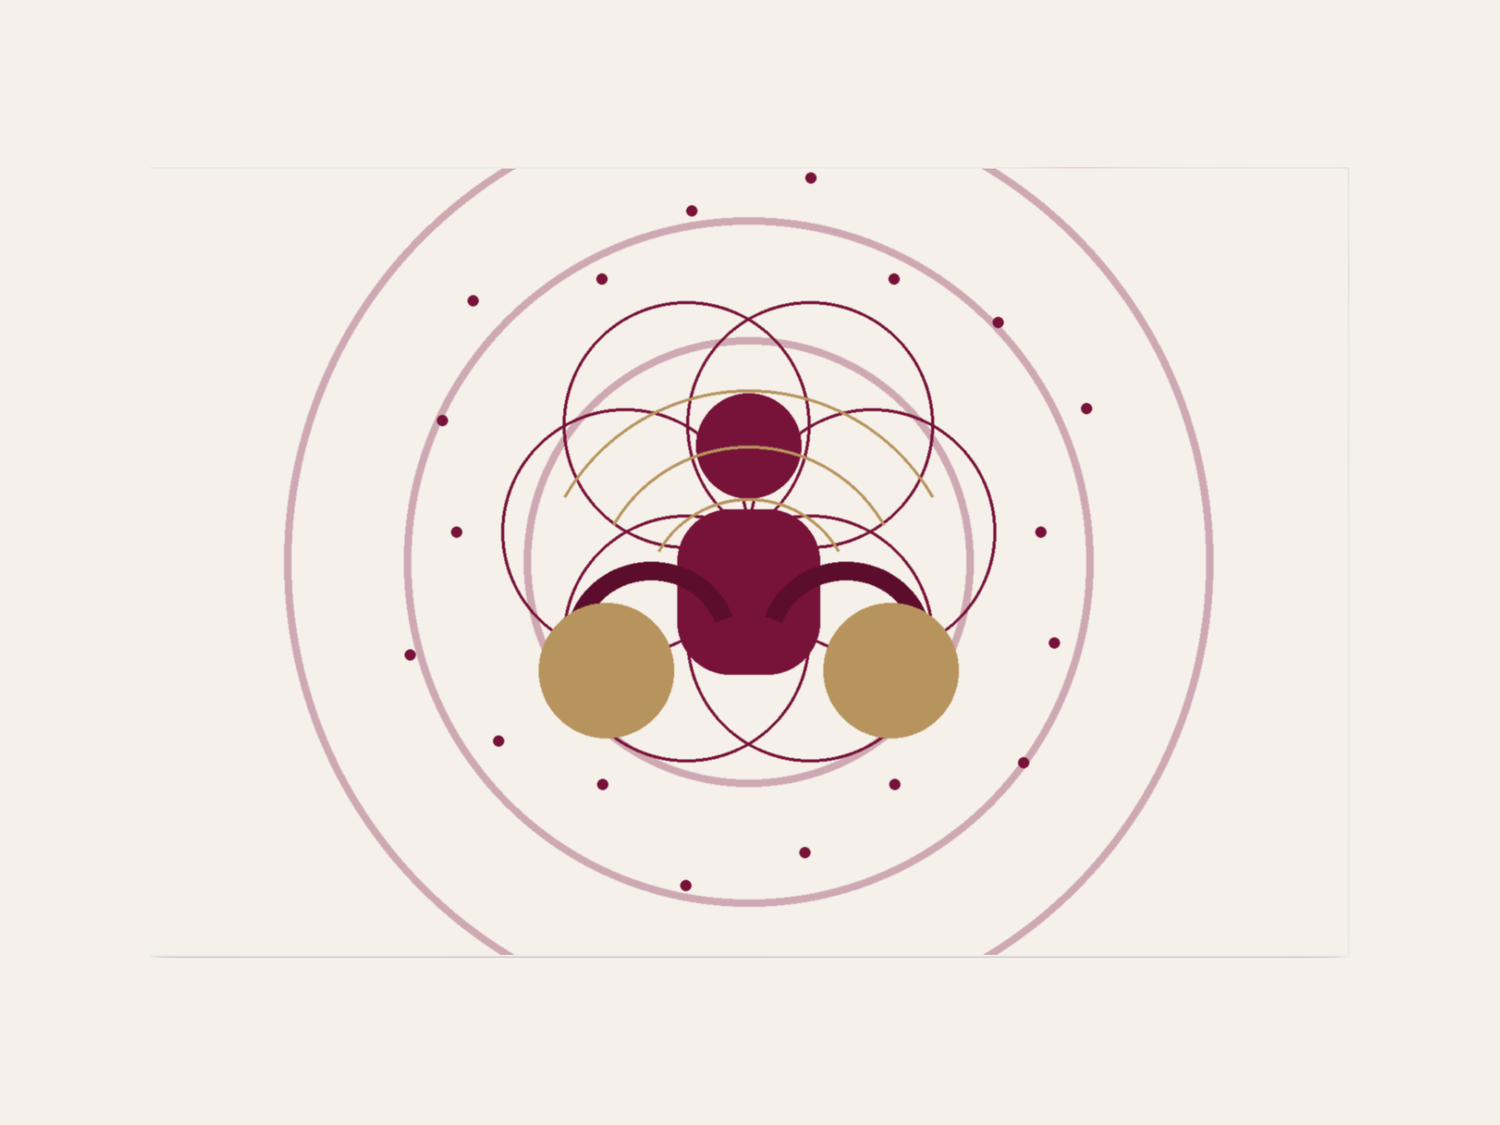
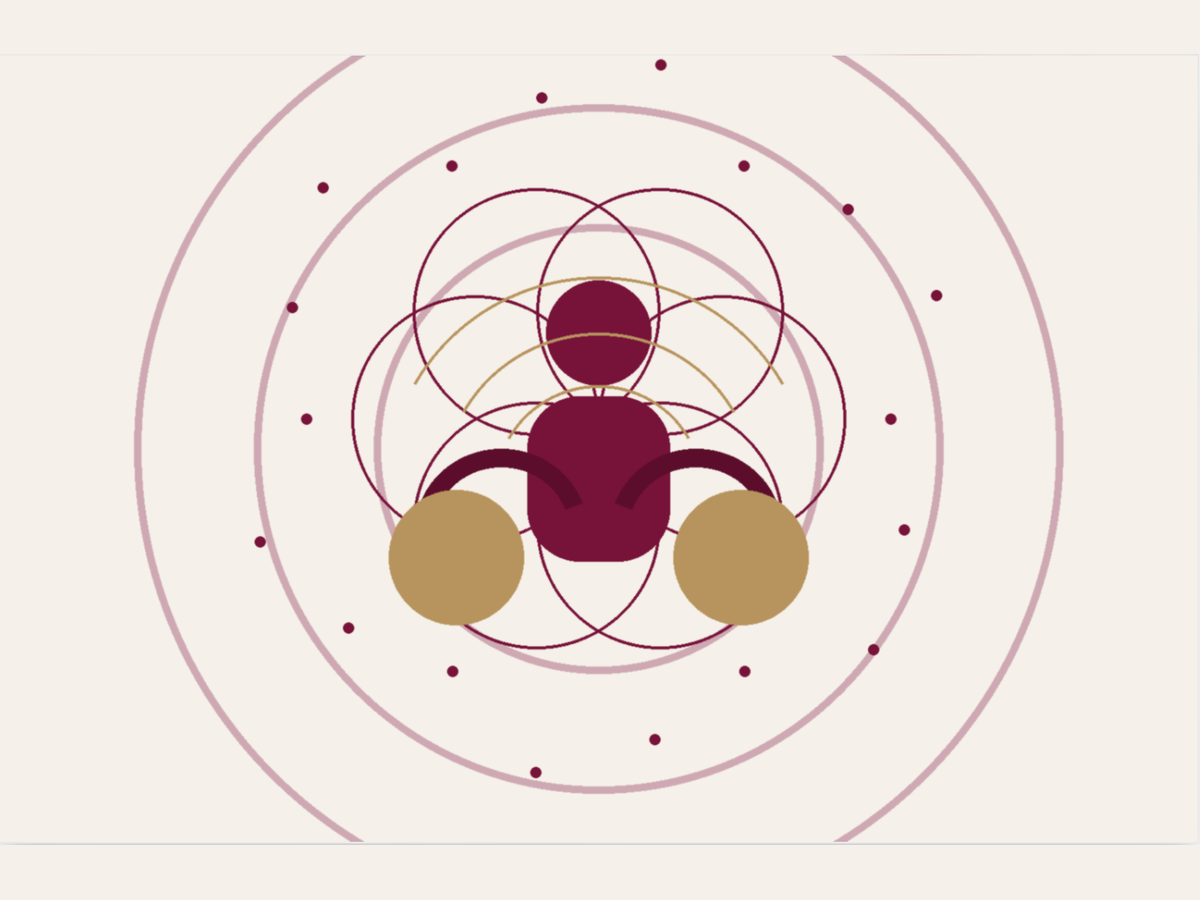
fix(images): update Quantum Touch Releasing® image dimensions and styles across multiple pages

diff --git a/08_Codebases/holistic-unity-website/_src/quantum-touch-releasing.html b/08_Codebases/holistic-unity-website/_src/quantum-touch-releasing.html
@@ -14,8 +14,8 @@
   <meta property="og:title" content="Quantum Touch Releasing® (QTR®) Sessions Online | Holistic Unity">
   <meta property="og:description" content="Book an online Quantum Touch Releasing® (QTR®) session with a verified practitioner. A vibrational, meditative energy technique founded by Ileana Rotella — a bio-natural practice of awareness, not psychotherapy or medical care.">
   <meta property="og:image" content="https://holisticunity.app/images/qtr.png">
-  <meta property="og:image:width" content="1500">
-  <meta property="og:image:height" content="1125">
+  <meta property="og:image:width" content="1200">
+  <meta property="og:image:height" content="900">
   <meta property="og:image:alt" content="Quantum Touch Releasing® (QTR®) illustration — Holistic Unity">
   <meta property="twitter:card" content="summary_large_image">
   <meta property="twitter:url" content="https://holisticunity.app/quantum-touch-releasing">
@@ -29,6 +29,11 @@
   <link rel="alternate" href="https://holisticunity.app/quantum-touch-releasing" hreflang="x-default">
   <title>Quantum Touch Releasing® (QTR®) Sessions Online | Holistic Unity</title>
   <link rel="stylesheet" href="shared.css">
+  <style>
+    /* Keep the QTR illustration contained instead of stretching to fill the
+       full hero column on wide screens (the source art is bold and reads large). */
+    .page-hero-image { max-width: 480px; margin: 0 auto; }
+  </style>
   <script type="application/ld+json">
   {
     "@context": "https://schema.org",
@@ -152,7 +157,7 @@
         </div>
       </div>
       <div class="page-hero-image">
-        <picture><source type="image/webp" srcset="images/qtr.webp"><img src="images/qtr.png" alt="Quantum Touch Releasing® (QTR®) Illustration" loading="eager" width="1500" height="1125" fetchpriority="high"></picture>
+        <picture><source type="image/webp" srcset="images/qtr.webp"><img src="images/qtr.png" alt="Quantum Touch Releasing® (QTR®) Illustration" loading="eager" width="1200" height="900" fetchpriority="high"></picture>
       </div>
     </div>
   </section>

diff --git a/08_Codebases/holistic-unity-website/en/quantum-touch-releasing.html b/08_Codebases/holistic-unity-website/en/quantum-touch-releasing.html
@@ -16,8 +16,8 @@
 <meta content="Quantum Touch Releasing® (QTR®) Sessions Online | Holistic Unity" property="og:title"/>
 <meta content="Online Quantum Touch Releasing® (QTR®) sessions with verified practitioners. A vibrational, meditative energy technique founded by Ileana Rotella that — in…" property="og:description"/>
 <meta content="https://holisticunity.app/images/qtr.png" property="og:image"/>
-<meta content="1500" property="og:image:width"/>
-<meta content="1125" property="og:image:height"/>
+<meta content="1200" property="og:image:width"/>
+<meta content="900" property="og:image:height"/>
 <meta content="Quantum Touch Releasing® (QTR®) illustration — Holistic Unity" property="og:image:alt"/>
 <meta content="summary_large_image" property="twitter:card"/>
 <meta content="https://holisticunity.app/en/quantum-touch-releasing" property="twitter:url"/>
@@ -498,6 +498,11 @@ footer { background: var(--charcoal); color: var(--white); padding: 80px 0 40px;
   .other-therapies-grid { grid-template-columns: 1fr; }
 }
 </style>
+<style>
+    /* Keep the QTR illustration contained instead of stretching to fill the
+       full hero column on wide screens (the source art is bold and reads large). */
+    .page-hero-image { max-width: 480px; margin: 0 auto; }
+  </style>
 <script type="application/ld+json">{
   "@context": "https://schema.org",
   "@type": "Service",
@@ -623,7 +628,7 @@ footer { background: var(--charcoal); color: var(--white); padding: 80px 0 40px;
 </div>
 </div>
 <div class="page-hero-image">
-<picture><source srcset="/images/qtr.webp" type="image/webp"/><img alt="Quantum Touch Releasing® (QTR®) Illustration" fetchpriority="high" height="1125" loading="eager" src="/images/qtr.png" width="1500"/></picture>
+<picture><source srcset="/images/qtr.webp" type="image/webp"/><img alt="Quantum Touch Releasing® (QTR®) Illustration" fetchpriority="high" height="900" loading="eager" src="/images/qtr.png" width="1200"/></picture>
 </div>
 </div>
 </section>

diff --git a/08_Codebases/holistic-unity-website/pt/quantum-touch-releasing.html b/08_Codebases/holistic-unity-website/pt/quantum-touch-releasing.html
@@ -16,8 +16,8 @@
 <meta content="Sessões de Quantum Touch Releasing® Online | Holistic Unity" property="og:title"/>
 <meta content="Sessões de Quantum Touch Releasing® (QTR®) online com profissionais verificados. Uma técnica meditativa energética vibracional fundada por Ileana Rotella…" property="og:description"/>
 <meta content="https://holisticunity.app/images/qtr.png" property="og:image"/>
-<meta content="1500" property="og:image:width"/>
-<meta content="1125" property="og:image:height"/>
+<meta content="1200" property="og:image:width"/>
+<meta content="900" property="og:image:height"/>
 <meta content="Quantum Touch Releasing® (QTR®) illustration — Holistic Unity" property="og:image:alt"/>
 <meta content="summary_large_image" property="twitter:card"/>
 <meta content="https://holisticunity.app/pt/quantum-touch-releasing" property="twitter:url"/>
@@ -498,6 +498,11 @@ footer { background: var(--charcoal); color: var(--white); padding: 80px 0 40px;
   .other-therapies-grid { grid-template-columns: 1fr; }
 }
 </style>
+<style>
+    /* Keep the QTR illustration contained instead of stretching to fill the
+       full hero column on wide screens (the source art is bold and reads large). */
+    .page-hero-image { max-width: 480px; margin: 0 auto; }
+  </style>
 <script type="application/ld+json">{
   "@context": "https://schema.org",
   "@type": "Service",
@@ -623,7 +628,7 @@ footer { background: var(--charcoal); color: var(--white); padding: 80px 0 40px;
 </div>
 </div>
 <div class="page-hero-image">
-<picture><source srcset="/images/qtr.webp" type="image/webp"/><img alt="Quantum Touch Releasing® (QTR®) Illustration" fetchpriority="high" height="1125" loading="eager" src="/images/qtr.png" width="1500"/></picture>
+<picture><source srcset="/images/qtr.webp" type="image/webp"/><img alt="Quantum Touch Releasing® (QTR®) Illustration" fetchpriority="high" height="900" loading="eager" src="/images/qtr.png" width="1200"/></picture>
 </div>
 </div>
 </section>

diff --git a/08_Codebases/holistic-unity-website/quantum-touch-releasing.html b/08_Codebases/holistic-unity-website/quantum-touch-releasing.html
@@ -16,8 +16,8 @@
 <meta content="Sessioni di Quantum Touch Releasing® Online | Holistic Unity" property="og:title"/>
 <meta content="Sessioni di Quantum Touch Releasing® (QTR®) online con professionisti verificati. Una tecnica meditativa energetica vibrazionale fondata da Ileana Rotella…" property="og:description"/>
 <meta content="https://holisticunity.app/images/qtr.png" property="og:image"/>
-<meta content="1500" property="og:image:width"/>
-<meta content="1125" property="og:image:height"/>
+<meta content="1200" property="og:image:width"/>
+<meta content="900" property="og:image:height"/>
 <meta content="Quantum Touch Releasing® (QTR®) illustration — Holistic Unity" property="og:image:alt"/>
 <meta content="summary_large_image" property="twitter:card"/>
 <meta content="https://holisticunity.app/quantum-touch-releasing" property="twitter:url"/>
@@ -498,6 +498,11 @@ footer { background: var(--charcoal); color: var(--white); padding: 80px 0 40px;
   .other-therapies-grid { grid-template-columns: 1fr; }
 }
 </style>
+<style>
+    /* Keep the QTR illustration contained instead of stretching to fill the
+       full hero column on wide screens (the source art is bold and reads large). */
+    .page-hero-image { max-width: 480px; margin: 0 auto; }
+  </style>
 <script type="application/ld+json">{
   "@context": "https://schema.org",
   "@type": "Service",
@@ -623,7 +628,7 @@ footer { background: var(--charcoal); color: var(--white); padding: 80px 0 40px;
 </div>
 </div>
 <div class="page-hero-image">
-<picture><source srcset="images/qtr.webp" type="image/webp"/><img alt="Quantum Touch Releasing® (QTR®) Illustration" fetchpriority="high" height="1125" loading="eager" src="images/qtr.png" width="1500"/></picture>
+<picture><source srcset="images/qtr.webp" type="image/webp"/><img alt="Quantum Touch Releasing® (QTR®) Illustration" fetchpriority="high" height="900" loading="eager" src="images/qtr.png" width="1200"/></picture>
 </div>
 </div>
 </section>

diff --git a/08_Codebases/holistic-unity-website/en/index.html b/08_Codebases/holistic-unity-website/en/index.html
@@ -2396,7 +2396,7 @@ footer { background: var(--charcoal); color: var(--white); padding: 80px 0 40px;
 </div>
 </a>
 <a class="therapy-card reveal-right" href="/en/quantum-touch-releasing">
-<div class="therapy-illo"><picture><source srcset="/images/qtr.webp" type="image/webp"/><img alt="Quantum Touch Releasing®" decoding="async" height="1125" loading="lazy" src="/images/qtr.png" width="1500"/></picture></div>
+<div class="therapy-illo"><picture><source srcset="/images/qtr.webp" type="image/webp"/><img alt="Quantum Touch Releasing®" decoding="async" height="900" loading="lazy" src="/images/qtr.png" width="1200"/></picture></div>
 <div class="therapy-info">
 <div class="therapy-num">12 / 12</div>
 <h3>Quantum Touch Releasing<sup>®</sup></h3>

diff --git a/08_Codebases/holistic-unity-website/pt/index.html b/08_Codebases/holistic-unity-website/pt/index.html
@@ -2396,7 +2396,7 @@ footer { background: var(--charcoal); color: var(--white); padding: 80px 0 40px;
 </div>
 </a>
 <a class="therapy-card reveal-right" href="/pt/quantum-touch-releasing">
-<div class="therapy-illo"><picture><source srcset="/images/qtr.webp" type="image/webp"/><img alt="Quantum Touch Releasing®" decoding="async" height="1125" loading="lazy" src="/images/qtr.png" width="1500"/></picture></div>
+<div class="therapy-illo"><picture><source srcset="/images/qtr.webp" type="image/webp"/><img alt="Quantum Touch Releasing®" decoding="async" height="900" loading="lazy" src="/images/qtr.png" width="1200"/></picture></div>
 <div class="therapy-info">
 <div class="therapy-num">12 / 12</div>
 <h3>Quantum Touch Releasing<sup>®</sup></h3>

diff --git a/08_Codebases/holistic-unity-website/index.html b/08_Codebases/holistic-unity-website/index.html
@@ -2396,7 +2396,7 @@ footer { background: var(--charcoal); color: var(--white); padding: 80px 0 40px;
 </div>
 </a>
 <a class="therapy-card reveal-right" href="quantum-touch-releasing">
-<div class="therapy-illo"><picture><source srcset="images/qtr.webp" type="image/webp"/><img alt="Quantum Touch Releasing®" decoding="async" height="1125" loading="lazy" src="images/qtr.png" width="1500"/></picture></div>
+<div class="therapy-illo"><picture><source srcset="images/qtr.webp" type="image/webp"/><img alt="Quantum Touch Releasing®" decoding="async" height="900" loading="lazy" src="images/qtr.png" width="1200"/></picture></div>
 <div class="therapy-info">
 <div class="therapy-num">12 / 12</div>
 <h3>Quantum Touch Releasing<sup>®</sup></h3>

diff --git a/08_Codebases/holistic-unity-website/_src/index.html b/08_Codebases/holistic-unity-website/_src/index.html
@@ -1954,7 +1954,7 @@
         </a>
 
         <a href="quantum-touch-releasing" class="therapy-card reveal-right">
-          <div class="therapy-illo"><picture><source type="image/webp" srcset="images/qtr.webp"><img src="images/qtr.png" alt="Quantum Touch Releasing®" loading="lazy" width="1500" height="1125" decoding="async"></picture></div>
+          <div class="therapy-illo"><picture><source type="image/webp" srcset="images/qtr.webp"><img src="images/qtr.png" alt="Quantum Touch Releasing®" loading="lazy" width="1200" height="900" decoding="async"></picture></div>
           <div class="therapy-info">
             <div class="therapy-num">12 / 12</div>
             <h3>Quantum Touch Releasing<sup>®</sup></h3>
